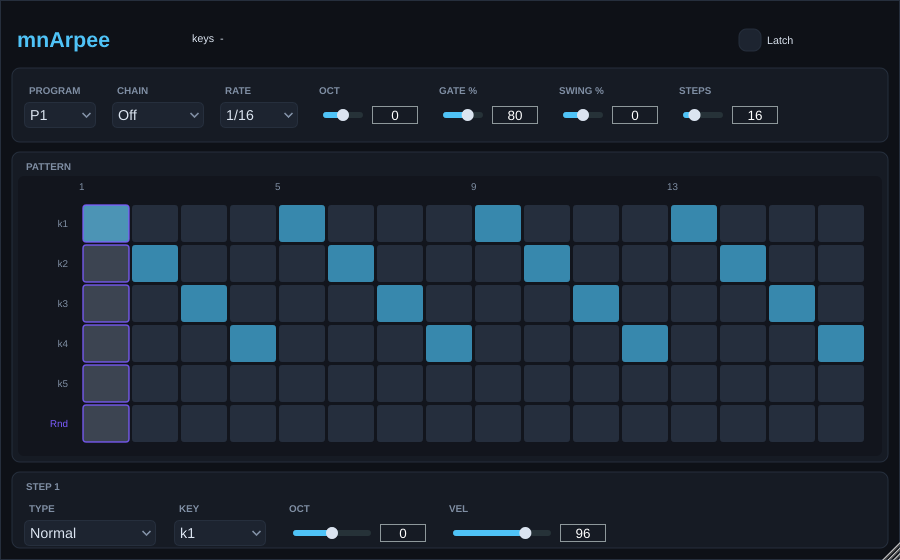
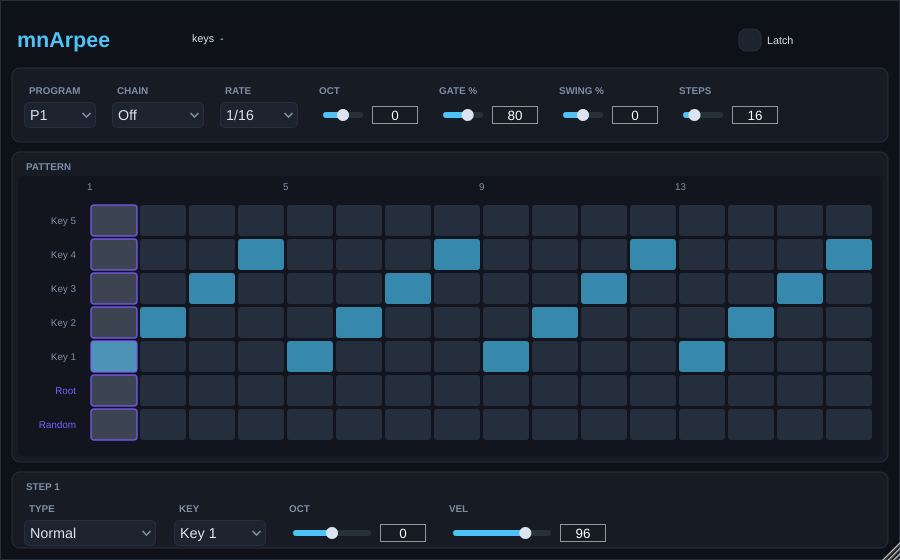
Matrix rows bottom to top: Random, Root, Key 1..5; add the Root key
- New KEY SELECT value Root (keyIndex -1): plays the root of the held chord,
  found by chordRootNote() (triads, sus, 7th chords, power chord, inversions;
  ties go to the bass note), in the octave it is held; falls back to the
  lowest note.
- Grid rows (top to bottom): Key 5 .. Key 1, Root, Random; KEY box lists
  Root and Key 1..5. State loading accepts the Root value.
- Tests for root detection and Root steps (38 engine checks).

Claude-Session: https://claude.ai/code/session_0129wFStoMWVsEnQumYUoBgW

Changed region(s): [[0.0311, 0.3643, 0.9956, 0.7893], [0.1867, 0.9411, 0.2489, 0.9714]]

diff --git a/Source/ArpEngine.cpp b/Source/ArpEngine.cpp
@@ -1,7 +1,9 @@
 #include "ArpEngine.h"
 
 #include <algorithm>
+#include <bit>
 #include <cmath>
+#include <initializer_list>
 
 namespace mnArpee
 {
@@ -13,6 +15,69 @@ bool validNote(int n) { return n >= 0 && n < 128; }
 constexpr double gridEpsilon = 1.0e-9;
 // Host positions that differ from the expected one by more than this are a jump.
 constexpr double jumpToleranceQuarters = 0.01;
+}
+
+int chordRootNote(const InputNotes& input) noexcept
+{
+    if (input.empty())
+        return -1;
+
+    // Chord shapes as interval masks from the root, larger (more specific) ones first.
+    constexpr auto mask = [](std::initializer_list<int> intervals)
+    {
+        unsigned m = 0;
+        for (int i : intervals)
+            m |= 1u << i;
+        return m;
+    };
+    constexpr unsigned shapes[] = {
+        mask({ 0, 4, 7, 11 }), // maj7
+        mask({ 0, 4, 7, 10 }), // 7
+        mask({ 0, 3, 7, 10 }), // m7
+        mask({ 0, 3, 6, 10 }), // m7b5
+        mask({ 0, 3, 6, 9 }),  // dim7
+        mask({ 0, 4, 7 }),     // major
+        mask({ 0, 3, 7 }),     // minor
+        mask({ 0, 3, 6 }),     // diminished
+        mask({ 0, 4, 8 }),     // augmented
+        mask({ 0, 5, 7 }),     // sus4
+        mask({ 0, 2, 7 }),     // sus2
+        mask({ 0, 7 }),        // power chord
+    };
+
+    unsigned present = 0;
+    for (int i = 0; i < input.size; ++i)
+        present |= 1u << (input.notes[(size_t) i].note % 12);
+    const int bassPc = input.notes[0].note % 12;
+
+    // Score: notes explained by the shape, minus notes it leaves out. Ties go to the bass
+    // note (inversions of symmetric chords), then to the earlier, more specific shape.
+    int bestPc = bassPc;
+    int bestScore = -1000;
+    for (int pc = 0; pc < 12; ++pc)
+    {
+        if ((present & (1u << pc)) == 0)
+            continue;
+        const unsigned rotated = ((present >> pc) | (present << (12 - pc))) & 0xfffu;
+        for (unsigned shape : shapes)
+        {
+            if ((rotated & shape) != shape)
+                continue;
+            const int score = std::popcount(shape) * 10 - std::popcount(rotated & ~shape) * 11
+                              + (pc == bassPc ? 1 : 0);
+            if (score > bestScore)
+            {
+                bestScore = score;
+                bestPc = pc;
+            }
+            break; // shapes are ordered: the first match is the best one for this root
+        }
+    }
+
+    for (int i = 0; i < input.size; ++i)
+        if (input.notes[(size_t) i].note % 12 == bestPc)
+            return input.notes[(size_t) i].note;
+    return input.notes[0].note;
 }
 
 ArpEngine::ArpEngine() { setBank(makeFactoryBank()); }
@@ -320,15 +385,24 @@ void ArpEngine::playOneStep(const Program& prog, const InputNotes& input, double
     if (play && step.type != StepType::Off && step.type != StepType::Rest)
     {
         // Rest is silent here: the preceding note was lengthened when it was scheduled.
-        // KEY SELECT: k1..k5 index into the sorted input; wraps around if fewer notes are held.
-        int pick = 0;
+        // KEY SELECT: k1..k5 index into the sorted input (wrapping around if fewer notes are
+        // held), Root is the root of the held chord.
+        int source = 0;
         if (step.type == StepType::Random)
-            pick = randomFn ? randomFn(0, input.size - 1) : (int) (rng() % (unsigned) input.size);
+        {
+            const int pick = randomFn ? randomFn(0, input.size - 1) : (int) (rng() % (unsigned) input.size);
+            source = input.notes[(size_t) std::clamp(pick, 0, input.size - 1)].note;
+        }
+        else if (step.keyIndex == rootKeyIndex)
+        {
+            source = chordRootNote(input);
+        }
         else
-            pick = std::clamp((int) step.keyIndex, 0, maxInputKeys - 1) % input.size;
-        pick = std::clamp(pick, 0, input.size - 1);
-        const int note = clampNote(input.notes[(size_t) pick].note + step.scaleStep + step.octave * 12
-                                   + prog.transposeOct * 12 + prog.octaveShift * 12);
+        {
+            source = input.notes[(size_t) (std::clamp((int) step.keyIndex, 0, maxInputKeys - 1) % input.size)].note;
+        }
+        const int note = clampNote(source + step.scaleStep + step.octave * 12 + prog.transposeOct * 12
+                                   + prog.octaveShift * 12);
 
         if (step.type == StepType::Tie)
         {

diff --git a/Source/PluginEditor.cpp b/Source/PluginEditor.cpp
@@ -118,7 +118,10 @@ MnArpeeAudioEditor::MnArpeeAudioEditor(MnArpeeAudioProcessor& p)
     stepTypeBox.addItem("Rest", (int) mnArpee::StepType::Rest + 1);
     stepTypeBox.addItem("Tie", (int) mnArpee::StepType::Tie + 1);
     stepTypeBox.addItem("Random", (int) mnArpee::StepType::Random + 1);
-    stepKeyBox.addItemList({ "k1", "k2", "k3", "k4", "k5" }, 1);
+    // Item id = KEY SELECT value + 2 (Root = -1).
+    stepKeyBox.addItem("Root", mnArpee::rootKeyIndex + 2);
+    for (int k = 0; k < mnArpee::maxInputKeys; ++k)
+        stepKeyBox.addItem("Key " + juce::String(k + 1), k + 2);
     for (auto* cb : { &programBox, &chainBox, &rateBox, &stepTypeBox, &stepKeyBox })
         addAndMakeVisible(*cb);
 
@@ -334,7 +337,8 @@ void MnArpeeAudioEditor::refreshStepEditor()
 {
     const auto& st = shownProgram.steps[(size_t) std::clamp(editStep, 0, mnArpee::maxSteps - 1)];
     stepTypeBox.setSelectedId((int) st.type + 1, juce::dontSendNotification);
-    stepKeyBox.setSelectedItemIndex(std::clamp((int) st.keyIndex, 0, 4), juce::dontSendNotification);
+    stepKeyBox.setSelectedId(std::clamp((int) st.keyIndex, (int) mnArpee::rootKeyIndex, 4) + 2,
+                           juce::dontSendNotification);
     stepOctSlider.setValue(st.octave, juce::dontSendNotification);
     stepVelSlider.setValue(std::max(1, (int) st.velocity), juce::dontSendNotification);
     repaint(editCard);
@@ -353,14 +357,16 @@ void MnArpeeAudioEditor::onGridClicked(int step, int row)
     using mnArpee::StepType;
     editStep = step;
     auto st = shownProgram.steps[(size_t) step];
-    if (row <= 4)
+    if (row != StepGrid::randomRow)
     {
+        // Key and Root rows: toggle the step on that key (a Tie step stays a Tie).
+        const int key = StepGrid::keyForRow(row);
         const bool pitched = st.type == StepType::Normal || st.type == StepType::Tie;
-        if (pitched && st.keyIndex == row)
+        if (pitched && st.keyIndex == key)
             st.type = StepType::Off;
         else if (st.type != StepType::Tie)
             st.type = StepType::Normal;
-        st.keyIndex = (std::int8_t) row;
+        st.keyIndex = (std::int8_t) key;
     }
     else
         st.type = st.type == StepType::Random ? StepType::Off : StepType::Random;
@@ -373,7 +379,7 @@ void MnArpeeAudioEditor::onStepEditorChanged()
 {
     auto st = shownProgram.steps[(size_t) editStep];
     st.type = mnArpee::stepTypeFromInt(stepTypeBox.getSelectedId() - 1);
-    st.keyIndex = (std::int8_t) juce::jlimit(0, 4, stepKeyBox.getSelectedItemIndex());
+    st.keyIndex = (std::int8_t) juce::jlimit((int) mnArpee::rootKeyIndex, 4, stepKeyBox.getSelectedId() - 2);
     st.octave = (std::int8_t) stepOctSlider.getValue();
     st.velocity = (std::uint8_t) stepVelSlider.getValue();
     commitStep(st);

diff --git a/Tests/EngineTests.cpp b/Tests/EngineTests.cpp
@@ -7,6 +7,7 @@
 #include <algorithm>
 #include <cstdio>
 #include <cstdlib>
+#include <initializer_list>
 #include <memory>
 #include <string>
 #include <vector>
@@ -429,6 +430,37 @@ int main()
         auto tail = runFor(*e, 1.0, 333);
         evs.insert(evs.end(), tail.begin(), tail.end());
         check(countOn(evs) > 30 && balanced(evs), "long-run-balanced");
+    }
+
+    // 24. Chord root detection: inversions, 7th chords, symmetric chords, no chord.
+    {
+        const auto root = [](std::initializer_list<int> notes)
+        {
+            InputNotes in;
+            for (int n : notes)
+                in.notes[(size_t) in.size++] = HeldNote { n, 100 };
+            return chordRootNote(in);
+        };
+        check(root({ 60, 64, 67 }) == 60, "root-c-major");
+        check(root({ 52, 55, 60 }) == 60, "root-first-inversion");   // E G C -> C
+        check(root({ 55, 60, 64 }) == 60, "root-second-inversion");  // G C E -> C
+        check(root({ 57, 60, 64, 67 }) == 57, "root-am7-not-c6");     // A C E G -> A
+        check(root({ 64, 67, 69, 72 }) == 69, "root-am7-inverted");   // E G A C -> A
+        check(root({ 62, 66, 69, 72 }) == 62, "root-d7");
+        check(root({ 59, 62, 65, 68 }) == 59, "root-dim7-uses-bass");
+        check(root({ 48, 55 }) == 48, "root-power-chord");
+        check(root({ 60, 61 }) == 60 && root({}) == -1, "root-fallback-lowest");
+    }
+
+    // 25. A Root step plays the chord root, in the octave it is held.
+    {
+        auto e = std::make_unique<ArpEngine>();
+        auto b = singleProgramBank(2, SyncRate::R1_8, 50);
+        b->programs[0].steps[0].keyIndex = rootKeyIndex;
+        e->setBank(*b);
+        for (int n : { 64, 67, 72 }) // E G C: C major, first inversion
+            e->noteOn(n, 100);
+        check(noteOnSequence(runFor(*e, 0.1)).front() == 72, "root-step-plays-root");
     }
 
     std::printf("%d checks, %d failures\n", checks, failures);

diff --git a/Source/StepGrid.cpp b/Source/StepGrid.cpp
@@ -2,7 +2,7 @@
 
 namespace
 {
-constexpr int labelW = 56;   // row label strip on the left
+constexpr int labelW = 64;   // row label strip on the left
 constexpr int stepH = 24;    // step row height
 constexpr int gutterTop = 20; // column labels (1,5,9,...)
 constexpr int cellGap = 3;
@@ -60,8 +60,8 @@ int StepGrid::rowForStep(const mnArpee::Step& s) const
     if (s.type == StepType::Off || s.type == StepType::Rest)
         return -1;
     if (s.type == StepType::Random)
-        return 5;
-    return std::clamp((int) s.keyIndex, 0, 4);
+        return randomRow;
+    return rowForKey(s.keyIndex);
 }
 
 juce::Rectangle<int> StepGrid::boardArea() const
@@ -126,11 +126,11 @@ void StepGrid::paint(juce::Graphics& g)
                    juce::Justification::centredLeft);
     }
 
-    static const char* rowNames[numRows] = { "k1", "k2", "k3", "k4", "k5", "Rnd" };
+    static const char* rowNames[numRows] = { "Key 5", "Key 4", "Key 3", "Key 2", "Key 1", "Root", "Random" };
     for (int r = 0; r < numRows; ++r)
     {
         auto first = cellRect(0, r);
-        g.setColour(r <= 4 ? Palette::dimText() : Palette::accent2());
+        g.setColour(r < rootRow ? Palette::dimText() : Palette::accent2());
         g.drawText(rowNames[r], 8, first.getY(), labelW - 14, first.getHeight(),
                    juce::Justification::centredRight);
     }

diff --git a/Source/StepGrid.h b/Source/StepGrid.h
@@ -5,7 +5,7 @@
 #include "ArpEngine.h"
 
 //==============================================================================
-// StepGrid: 64-step matrix. Row = KEY SELECT (k1..k5 + Rnd),
+// StepGrid: 64-step matrix. Rows, bottom to top: Random, Root, Key 1 .. Key 5;
 // column = step. Clicking a cell toggles that setting. Tie steps are drawn linked
 // to the previous column, Rest and Off steps as a mark in the first row.
 //==============================================================================
@@ -44,7 +44,12 @@ public:
     void mouseMove(const juce::MouseEvent& e) override;
     void mouseExit(const juce::MouseEvent&) override;
 
-    static constexpr int numRows = 6; // k1..k5, Rnd
+    static constexpr int numRows = 7; // top to bottom: Key 5 .. Key 1, Root, Random
+    static constexpr int rootRow = 5;
+    static constexpr int randomRow = 6;
+    // KEY SELECT value of a key row (Key 5 .. Key 1, Root); -2 for the Random row.
+    static int keyForRow(int row) { return row == rootRow ? mnArpee::rootKeyIndex : (row < rootRow ? 4 - row : -2); }
+    static int rowForKey(int key) { return key == mnArpee::rootKeyIndex ? rootRow : 4 - std::clamp(key, 0, 4); }
 
 private:
     juce::Rectangle<int> boardArea() const;

diff --git a/Source/PatternData.h b/Source/PatternData.h
@@ -20,7 +20,7 @@
 //  - chains: max 16, chain quantize, restart-on-switch
 // MVP simplifications (by request):
 //  - no input range filter / wrap, no missing-keys substitution,
-//    no chord detection / scale derivation, no input quantize,
+//    chord detection only for the Root key (no scale derivation), no input quantize,
 //    no fixed-key sequencer mode, no scale enforcement,
 //  - no arp modes: the step matrix defines the whole pattern.
 //
@@ -33,6 +33,8 @@ namespace mnArpee
 
 constexpr int maxSteps = 64;
 constexpr int maxInputKeys = 5;
+// Step::keyIndex value for the root of the held chord (KEY SELECT "Root").
+constexpr std::int8_t rootKeyIndex = -1;
 constexpr int maxPrograms = 16;
 constexpr int maxChains = 16;
 constexpr int maxChainSteps = 64;
@@ -102,7 +104,8 @@ struct Name
 struct Step
 {
     StepType type = StepType::Normal;
-    // Which sorted input note: 0..4 (k1..k5). Ignored for Random.
+    // Which input note: 0..4 = k1..k5 (sorted by pitch), rootKeyIndex = root of the held
+    // chord. Ignored for Random.
     std::int8_t keyIndex = 0;
     std::int8_t scaleStep = 0;   // -12..+12 semitones up (MVP: chromatic)
     std::int8_t octave = 0;      // -3..+3

diff --git a/Source/PluginProcessor.cpp b/Source/PluginProcessor.cpp
@@ -480,7 +480,7 @@ void MnArpeeAudioProcessor::setStateInformation(const void* data, int sizeInByte
                 for (auto& s : prog.steps)
                 {
                     s.type = mnArpee::stepTypeFromInt((int) in.readByte());
-                    s.keyIndex = (std::int8_t) juce::jlimit(0, 4, (int) in.readByte());
+                    s.keyIndex = (std::int8_t) juce::jlimit((int) mnArpee::rootKeyIndex, 4, (int) in.readByte());
                     s.scaleStep = (std::int8_t) juce::jlimit(-12, 12, (int) in.readByte());
                     s.octave = (std::int8_t) juce::jlimit(-3, 3, (int) in.readByte());
                     s.velocity = (std::uint8_t) juce::jlimit(0, 127, (int) (unsigned char) in.readByte());

diff --git a/Source/ArpEngine.h b/Source/ArpEngine.h
@@ -74,6 +74,11 @@ struct InputNotes
     }
 };
 
+// Root of the chord formed by the input notes (triads, sus, 7th chords, power chord;
+// inversions included), returned as the lowest held note of that pitch class. Without a
+// recognisable chord it is the lowest note. Returns -1 for empty input.
+int chordRootNote(const InputNotes& input) noexcept;
+
 //==============================================================================
 // ArpEngine: plays the step patterns of a Bank. render() is allocation-free and
 // intended for the audio thread; all setters are cheap and must be called from

diff --git a/README.md b/README.md
@@ -5,10 +5,12 @@ No input pre-filtering: held notes are sorted by pitch before they reach the eng
 
 ## Features (MVP)
 
-- No arp modes: the step matrix draws the whole pattern (KEY SELECT k1..k5 picks from the pitch-sorted input; fewer held notes wrap around)
+- No arp modes: the step matrix draws the whole pattern. Rows, bottom to top: Random, Root, Key 1 .. Key 5
+  - Key 1..5 pick from the pitch-sorted input (fewer held notes wrap around)
+  - Root plays the root of the held chord (triads, sus, 7th chords, power chords, inversions too), else the lowest note
 - 64 steps / program, step types: Off / Normal / Rest / Tie / Random (every step plays one note)
   - Rest lengthens the previous note by a step, Tie plays legato (new note starts before the old one ends; a note tied to itself keeps sounding)
-- Per step: KEY SELECT k1..k5, octave -3..+3, velocity, chance
+- Per step: KEY SELECT (Root, Key 1..5), octave -3..+3, velocity, chance
 - Per program: rate 1/64..3/8 (bar fractions, BlueArp manual), gate 1..125%, swing -50..+50%, octave -2..+2, steps 0..64
   - The header controls always show the selected program; switching programs stores and reloads them
   - Steps 0 = MIDI thru, 1 = quantized thru
